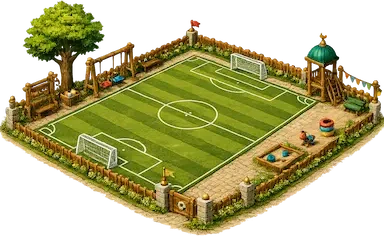
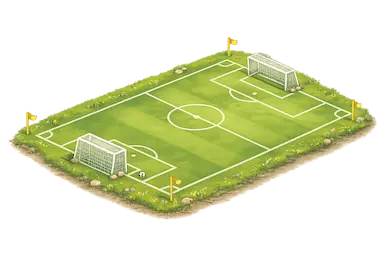
auto-commit for 14d0f190-202a-4f05-910f-dba1148f1ca9

diff --git a/app/world/page.js b/app/world/page.js
@@ -873,8 +873,8 @@ function WorldPageInner() {
         )}
       </AnimatePresence>
 
-      {/* Header — back button + title */}
-      <div className="absolute top-0 left-0 right-0 p-1 sm:p-3 flex items-center justify-between pointer-events-none">
+      {/* Header — back button + title (mobile: minimal padding) */}
+      <div className="absolute top-0 left-0 right-0 p-0.5 sm:p-3 flex items-center justify-between pointer-events-none">
         <button
           onClick={() => router.push('/kid?childId=' + childId)}
           className="pointer-events-auto flex items-center gap-1 rounded-xl bg-white/85 backdrop-blur px-3 py-2 text-emerald-900 font-black text-sm shadow active:scale-95"
@@ -895,11 +895,10 @@ function WorldPageInner() {
         <div className="w-16" /> {/* balance for centering */}
       </div>
 
-      {/* Sidebar — Build menu. When any modal overlay is open, we lower the
-          sidebar into pointer-events-none so tapping popup buttons above it
-          never leaks into a sidebar variant tile / category tab below. */}
-      <div className={`absolute bottom-0 left-0 right-0 p-1 sm:p-3 z-30 ${overlayOpen ? 'pointer-events-none' : ''}`}>
-        <div className={`bg-white/90 backdrop-blur rounded-xl sm:rounded-2xl border-2 border-white/60 shadow-xl p-2 sm:p-3 ${overlayOpen ? 'pointer-events-none opacity-70' : 'pointer-events-auto'}`}>
+      {/* Sidebar — Build menu. Mobile: minimal side padding so panel spans
+          full screen width and doesn't obscure the wilderness view. */}
+      <div className={`absolute bottom-0 left-0 right-0 p-0.5 sm:p-3 z-30 ${overlayOpen ? 'pointer-events-none' : ''}`}>
+        <div className={`bg-white/90 backdrop-blur rounded-lg sm:rounded-2xl border border-white/60 sm:border-2 shadow-xl p-1.5 sm:p-3 ${overlayOpen ? 'pointer-events-none opacity-70' : 'pointer-events-auto'}`}>
           <div className="flex items-center gap-2 mb-2">
             <Package className="w-4 h-4 text-emerald-700" />
             <div className="text-xs font-black uppercase tracking-wider text-emerald-900">

diff --git a/lib/phaser/WorldScene.js b/lib/phaser/WorldScene.js
@@ -160,7 +160,8 @@ export function buildWorldScene(Phaser) {
 
       // 🎠 Taman (2026-08-03 v3) — 3 aset baharu, dah SMART-TRIM (auto-crop
       // transparent padding via PIL). Selepas trim: taman_awam 350×206,
-      // padang_bola 384×236, waterpark 296×224. baseScale ditune supaya
+      // padang_bola 384×256 (replaced 2026-08-08), waterpark 296×224.
+      // baseScale ditune supaya
       // sprite mengisi diamond secara optimal tanpa overshoot horizontal.
       // Kids animasi akan di-spawn di atas selepas sprite di-render (_spawnPlayKids).
       taman_awam:      { path: '/assets/world/taman/taman_awam.webp',  baseScale: 0.52 },
